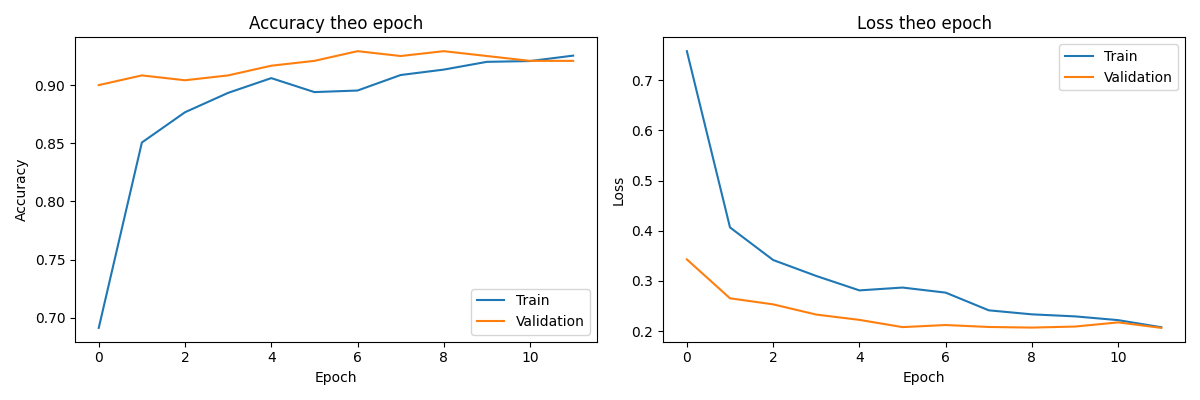
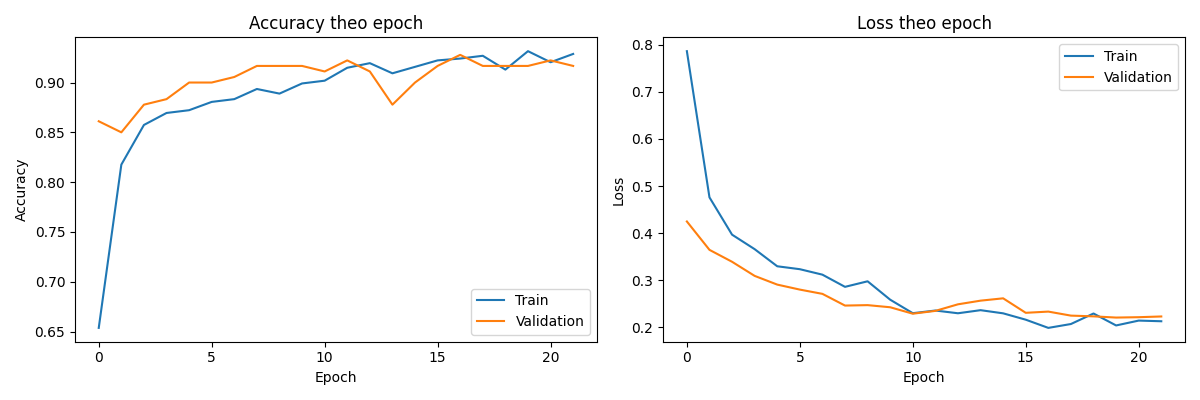
Train lại với data lớn hơn - Val Accuracy 92.9%

diff --git a/evaluate.py b/evaluate.py
@@ -1,0 +1,43 @@
+import tensorflow as tf
+import numpy as np
+from PIL import Image
+import os
+
+os.environ['TF_CPP_MIN_LOG_LEVEL'] = '3'
+
+# Load model
+print("Dang load model...")
+model = tf.keras.models.load_model("models/best_model.keras")
+CLASS_NAMES = ['Bus', 'Car', 'Truck']
+
+TEST_DIR = r"C:\Users\Legion\Downloads\archive\test"
+
+results = {'Bus': 0, 'Car': 0, 'Truck': 0}
+files = [f for f in os.listdir(TEST_DIR) if f.endswith(('.jpg', '.jpeg', '.png'))]
+
+print(f"Tong so anh test: {len(files)}")
+print("Dang du doan...\n")
+
+for filename in files:
+    path = os.path.join(TEST_DIR, filename)
+    try:
+        img = Image.open(path).convert("RGB").resize((224, 224))
+        img_array = tf.keras.utils.img_to_array(img)
+        img_array = tf.expand_dims(img_array, 0)
+        img_array = tf.keras.applications.mobilenet_v2.preprocess_input(img_array)
+
+        predictions = model.predict(img_array, verbose=0)
+        class_idx = int(np.argmax(predictions[0]))
+        results[CLASS_NAMES[class_idx]] += 1
+    except Exception as e:
+        print(f"Loi anh {filename}: {e}")
+
+# In kết quả
+total = sum(results.values())
+print("=" * 40)
+print("KET QUA DU DOAN TOAN BO TAP TEST")
+print("=" * 40)
+for label, count in results.items():
+    print(f"{label:10}: {count:4} anh ({count/total*100:.1f}%)")
+print(f"{'Tong':10}: {total:4} anh")
+print("=" * 40)
